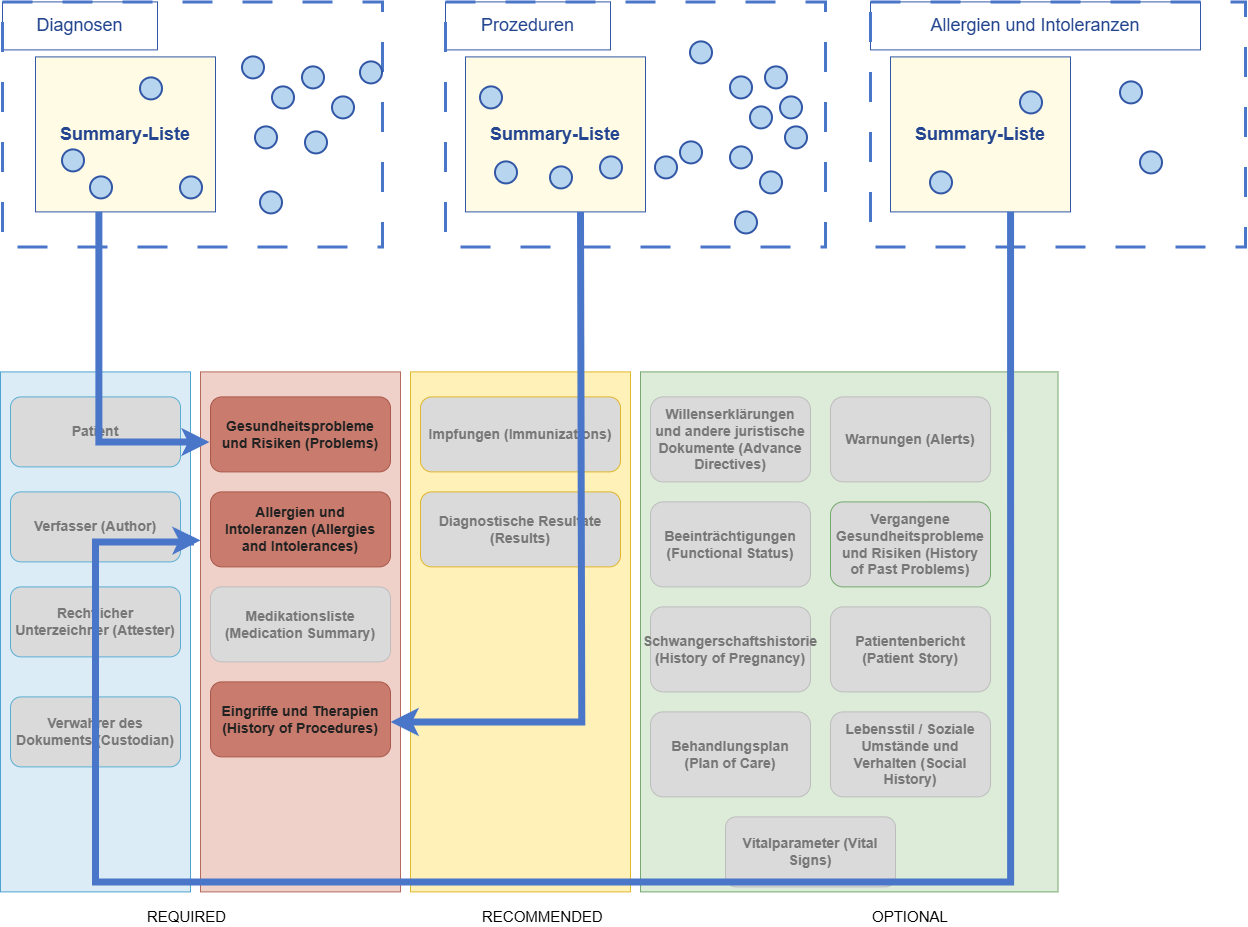
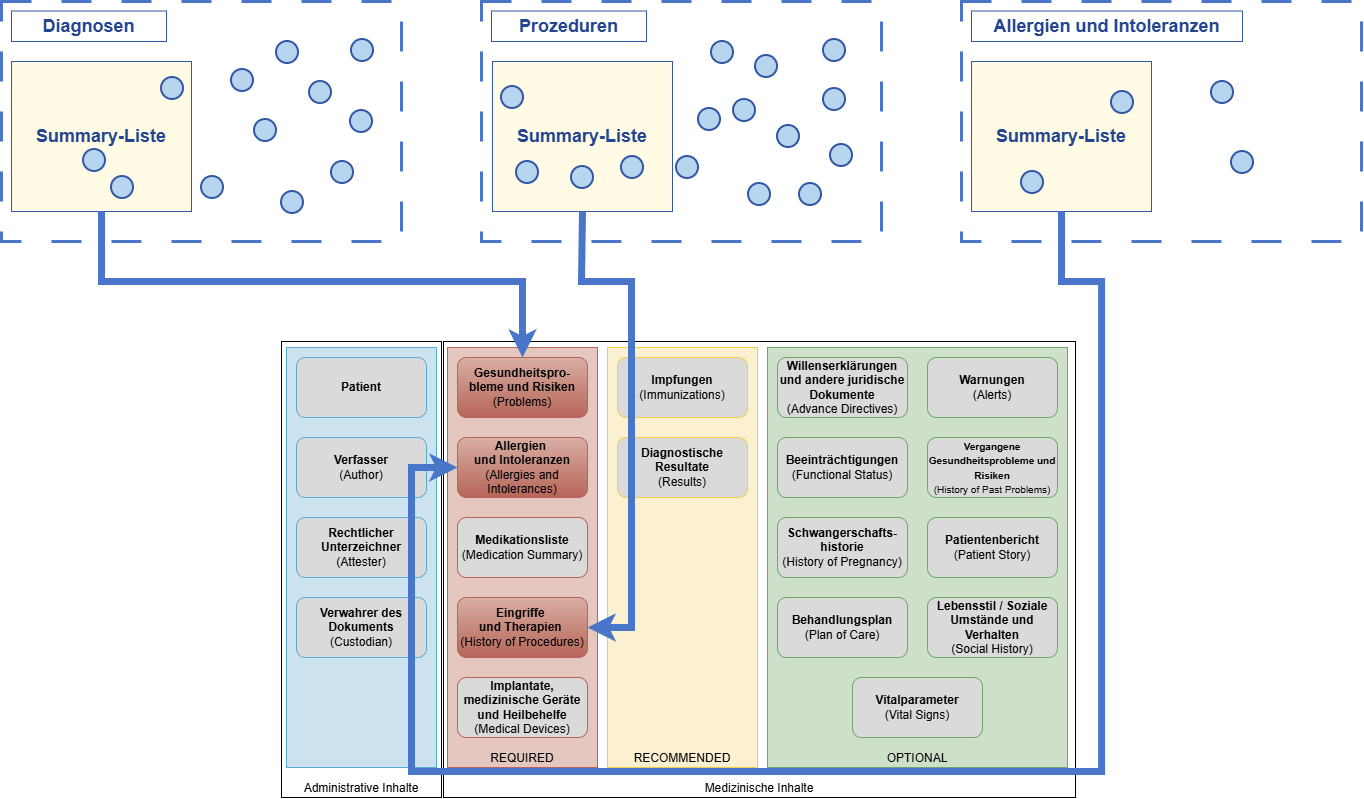
Update background and diagram

diff --git a/input/pagecontent/background.md b/input/pagecontent/background.md
@@ -1,18 +1,15 @@
-
-
-Die strukturierte Dokumentation und der Austausch von Conditions, Procedures und AllergiesIntolerances sind eine wesentliche Grundlage für die medizinische Versorgung. Die e-Diagnose soll diese Informationen übergreifend in ELGA verfügbar machen und damit eine gesamthafte Übersicht über den Gesundheitszustand sowie die weitere Behandlung unterstützen. Zudem soll sie die Grundlage für die Austrian Patient Summary (APS) schaffen.
-
+Die strukturierte Dokumentation und der Austausch von Diagnosen, Prozeduren sowie Allergien und Intoleranzen sind eine wesentliche Grundlage für die medizinische Versorgung. Die e-Diagnose soll diese Informationen übergreifend in ELGA verfügbar machen und damit eine gesamthafte Übersicht über den Gesundheitszustand sowie die weitere Behandlung unterstützen. Zudem soll sie die Grundlage für die [Austrian Patient Summary (APS)](https://fhir.hl7.at/elga/aps/r4) schaffen.
 
 ### Fachliches Umfeld & Datenkategorien
+
 Die IPS unterscheidet mehrere Datenkategorien. Diese werden im Rahmen der Konzeption der e-Diagnose berücksichtigt, insbesondere im Hinblick auf die spätere Verwendung der Daten für die APS.
 
-
-| IPS-Datenkategorie | FHIR-Ressource | Verwendung in der e-Diagnose |
+| IPS-Datenkategorie | FHIR-Ressource | Repräsentation in der e-Diagnose |
 |---|---|---|
-| **Problem List** | Conditions | Diagnosen-Summary-Liste |
-| **History of Past Problems** | Conditions | Diagnosen-Summary-Einträge |
-| **History of Procedures** | Procedures | Prozeduren-Summary-Einträge |
-| **Allergies and Intolerances** | AllergiesIntolerances | Allergie- und Intoleranzen-Summary-Einträge |
+| **Problems** | Condition | Summary-Liste für Diagnosen |
+| **History of Procedures** | Procedure | Summary-Liste für Prozeduren |
+| **Allergies and Intolerances** | AllergyIntolerance | Summary-Liste für Allergien und Intoleranzen |
+{: .grid}
 
-[![diagram](summary_listen_dokumentstruktur.png){: style="width: 60%"}](summary_listen_dokumentstruktur.png)
+[![diagram](summary_listen_dokumentstruktur.png){: style="width: 80%"}](summary_listen_dokumentstruktur.png)
 
